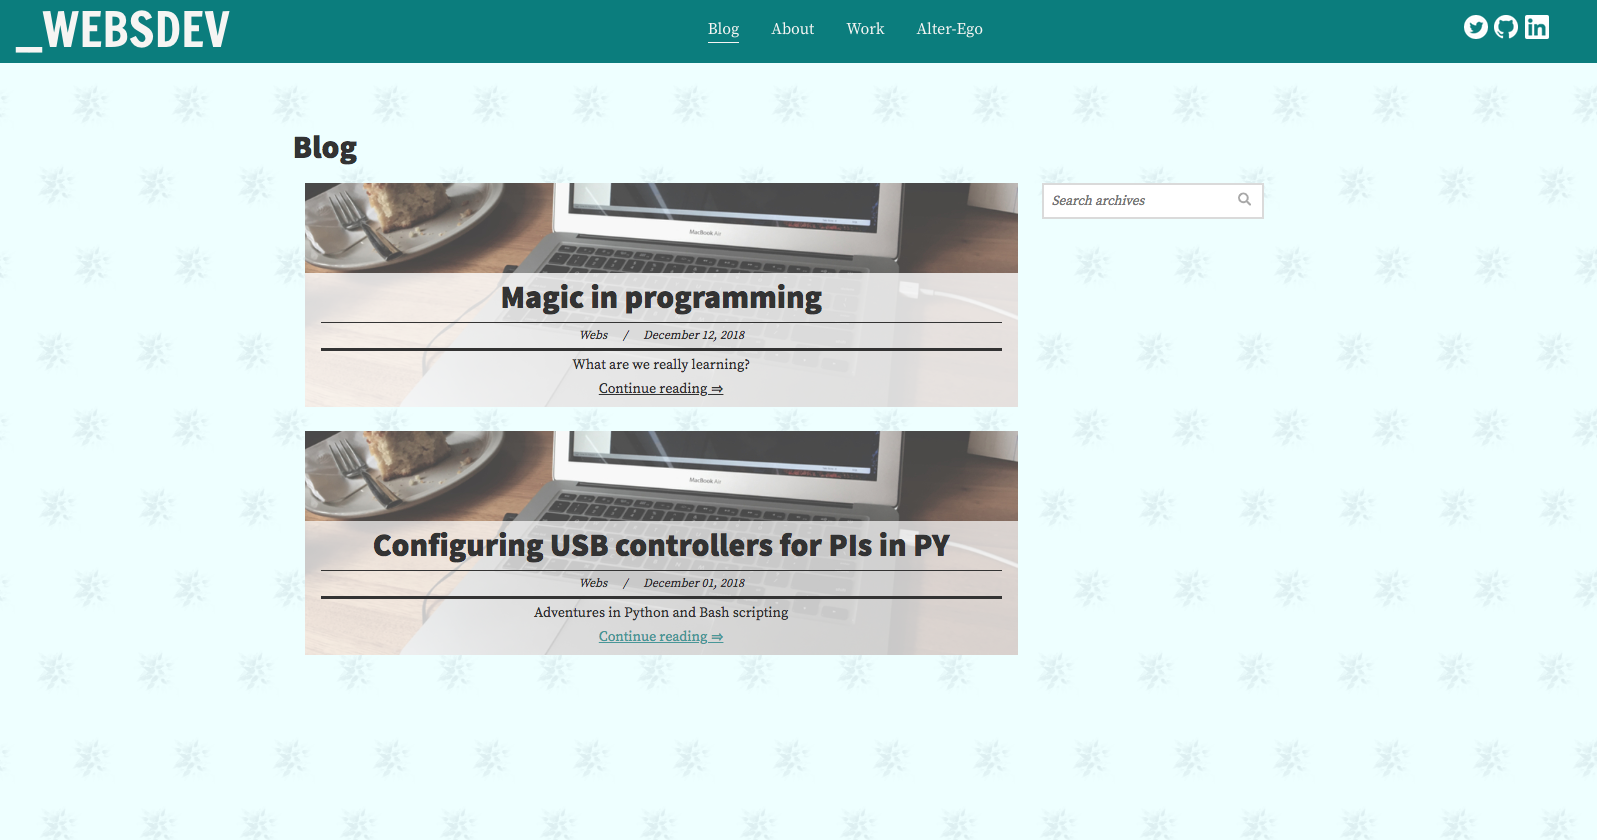
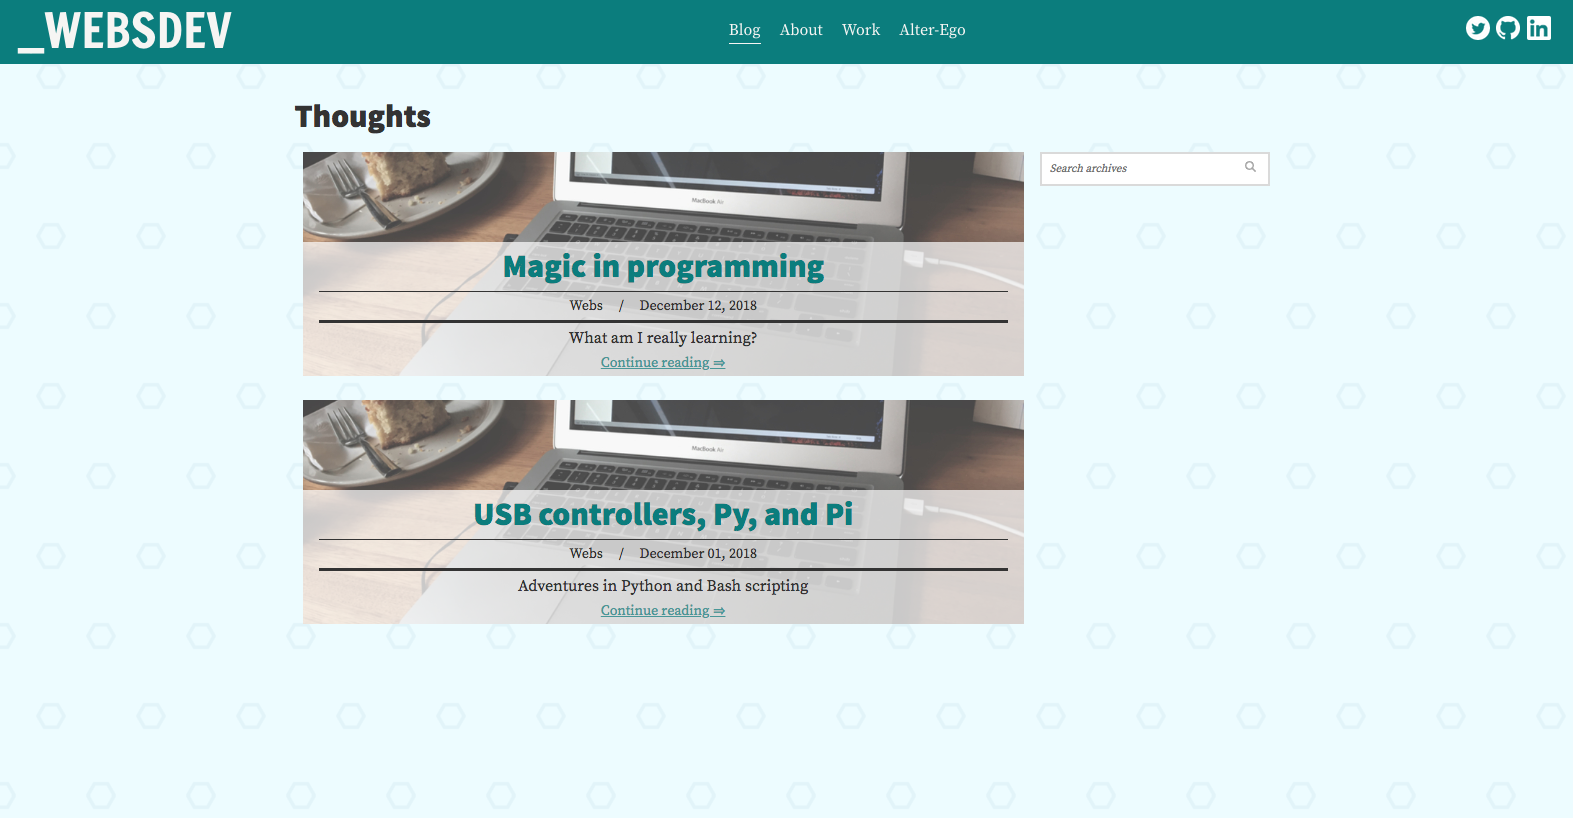
placeholder posts, deploy config set up

Changed region(s): [[0.1869, 0.1222, 0.8099, 0.7946], [0.0, 0.0, 1.0, 0.0917], [0.1869, 0.7641, 0.2492, 0.7946]]

diff --git a/src/pages/posts/a-usb-controller-py-and-pi.md b/src/pages/posts/a-usb-controller-py-and-pi.md
@@ -1,24 +1,29 @@
 ---
 title: USB controllers, Py, and Pi
-date: '2018-12-01'
+date: '2018-12-31'
 spoiler: Adventures in Python and Bash scripting
 author: Webs
 ---
 
-What makes a great API?
+Please excuse these placeholder posts! At least the titles are two of the first topics I'll be publishing, so you know what to expect when they do go up :P
 
-*Good* API design is memorable and unambiguous. It encourages readable, correct and performant code, and helps developers fall into [the pit of success](https://blog.codinghorror.com/falling-into-the-pit-of-success/).
+Lorem ipsum dolor sit amet, consectetur adipisicing elit, sed do eiusmod
+tempor incididunt ut labore et dolore magna aliqua. Ut enim ad minim veniam,
+quis nostrud exercitation ullamco laboris nisi ut aliquip ex ea commodo
+consequat. Duis aute irure dolor in reprehenderit in voluptate velit esse
+cillum dolore eu fugiat nulla pariatur. Excepteur sint occaecat cupidatat non
+proident, sunt in culpa qui officia deserunt mollit anim id est laborum. Lorem ipsum dolor sit amet, consectetur adipisicing elit, sed do eiusmod
+tempor incididunt ut labore et dolore magna aliqua. Ut enim ad minim veniam,
+quis nostrud exercitation ullamco laboris nisi ut aliquip ex ea commodo
+consequat. Duis aute irure dolor in reprehenderit in voluptate velit esse
+cillum dolore eu fugiat nulla pariatur. Excepteur sint occaecat cupidatat non
+proident, sunt in culpa qui officia deserunt mollit anim id est laborum.
 
-I call these design aspects “first order” because they are the first things a library developer tends to focus on. You might have to compromise on some of them and make tradeoffs but at least they’re always on your mind.
+Lorem ipsum dolor sit amet, consectetur adipisicing elit, sed do eiusmod
+tempor incididunt ut labore et dolore magna aliqua. Ut enim ad minim veniam,
+quis nostrud exercitation ullamco laboris nisi ut aliquip ex ea commodo
+consequat. Duis aute irure dolor in reprehenderit in voluptate velit esse
+cillum dolore eu fugiat nulla pariatur. Excepteur sint occaecat cupidatat non
+proident, sunt in culpa qui officia deserunt mollit anim id est laborum.
 
-However, unless you’re sending a rover to Mars, your code will probably change over time. And so will the code of your API consumers.
-
-The best API designers I know don’t stop at the “first order” aspects like readability. They dedicate just as much, if not more, effort to what I call the “second order” API design: **how code using this API would evolve over time.**
-
-A slight change in requirements can make the most elegant code fall apart.
-
-*Great* APIs anticipate that. They anticipate that you’ll want to move some code. Copy and paste some part. Rename it. Unify special cases into a generic reusable helper. Unwind an abstraction back into specific cases. Add a hack. Optimize a bottleneck. Throw away a part and start it anew. Make a mistake. Navigate between the cause and the effect. Fix a bug. Review the fix.
-
-Great APIs not only let you fall into a pit of success, but help you *stay* there.
-
-They’re optimized for change.
+I promise it won't be long!

diff --git a/src/pages/posts/magic-in-programming.md b/src/pages/posts/magic-in-programming.md
@@ -1,24 +1,29 @@
 ---
 title: Magic in programming
-date: '2018-12-12'
+date: '2019-01-01'
 spoiler: What am I really learning?
 author: Webs
 ---
 
-What makes a great API?
+Please excuse these placeholder posts! At least the titles are two of the first topics I'll be publishing, so you know what to expect when they do go up :P
 
-*Good* API design is memorable and unambiguous. It encourages readable, correct and performant code, and helps developers fall into [the pit of success](https://blog.codinghorror.com/falling-into-the-pit-of-success/).
+Lorem ipsum dolor sit amet, consectetur adipisicing elit, sed do eiusmod
+tempor incididunt ut labore et dolore magna aliqua. Ut enim ad minim veniam,
+quis nostrud exercitation ullamco laboris nisi ut aliquip ex ea commodo
+consequat. Duis aute irure dolor in reprehenderit in voluptate velit esse
+cillum dolore eu fugiat nulla pariatur. Excepteur sint occaecat cupidatat non
+proident, sunt in culpa qui officia deserunt mollit anim id est laborum. Lorem ipsum dolor sit amet, consectetur adipisicing elit, sed do eiusmod
+tempor incididunt ut labore et dolore magna aliqua. Ut enim ad minim veniam,
+quis nostrud exercitation ullamco laboris nisi ut aliquip ex ea commodo
+consequat. Duis aute irure dolor in reprehenderit in voluptate velit esse
+cillum dolore eu fugiat nulla pariatur. Excepteur sint occaecat cupidatat non
+proident, sunt in culpa qui officia deserunt mollit anim id est laborum.
 
-I call these design aspects “first order” because they are the first things a library developer tends to focus on. You might have to compromise on some of them and make tradeoffs but at least they’re always on your mind.
+Lorem ipsum dolor sit amet, consectetur adipisicing elit, sed do eiusmod
+tempor incididunt ut labore et dolore magna aliqua. Ut enim ad minim veniam,
+quis nostrud exercitation ullamco laboris nisi ut aliquip ex ea commodo
+consequat. Duis aute irure dolor in reprehenderit in voluptate velit esse
+cillum dolore eu fugiat nulla pariatur. Excepteur sint occaecat cupidatat non
+proident, sunt in culpa qui officia deserunt mollit anim id est laborum.
 
-However, unless you’re sending a rover to Mars, your code will probably change over time. And so will the code of your API consumers.
-
-The best API designers I know don’t stop at the “first order” aspects like readability. They dedicate just as much, if not more, effort to what I call the “second order” API design: **how code using this API would evolve over time.**
-
-A slight change in requirements can make the most elegant code fall apart.
-
-*Great* APIs anticipate that. They anticipate that you’ll want to move some code. Copy and paste some part. Rename it. Unify special cases into a generic reusable helper. Unwind an abstraction back into specific cases. Add a hack. Optimize a bottleneck. Throw away a part and start it anew. Make a mistake. Navigate between the cause and the effect. Fix a bug. Review the fix.
-
-Great APIs not only let you fall into a pit of success, but help you *stay* there.
-
-They’re optimized for change.
+I promise it won't be long!

diff --git a/src/pages/work/websdev.md b/src/pages/work/websdev.md
@@ -10,3 +10,4 @@ tech: gatsby reactjs sass
 
 That's right, the very website you're browsing right now! My original website overstayed it's welcome quite a bit, and when I committed to a new project, I knew I wanted to properly utilize static site building tools and implement a blog. I've been in love with Reactjs for a while, and after a bit of waffling between Gatsbyjs and Nextjs, I settled on Gatsbyjs. 
 
+Gatsby has been a great development experience. The starter templates are amazing not only as a jumping off point for a project but also as great examples to see how other developers have tackled particular problems(and where the hell I'm making configuration errors in my root files). The GraphQL query system took me a moment to get a handle on, as I'd only been marginally exposed to GraphQL before delving into Gatsby, but once you grasp it it's great. The documentation is fairly thorough, although a found myself digging through other projects and old issues a few times when they did fall short. It's quite an extensive ecosystem so I can be understanding in that regard. The little bells & whistles are what really push the development experience over the top. Gatsby-Image is one of the coolest tools I've come across and super easy to get started with, and the GraphQL debugger is amazing. I've still plenty of little things to finish or improve with this site, but I've loved building it!
